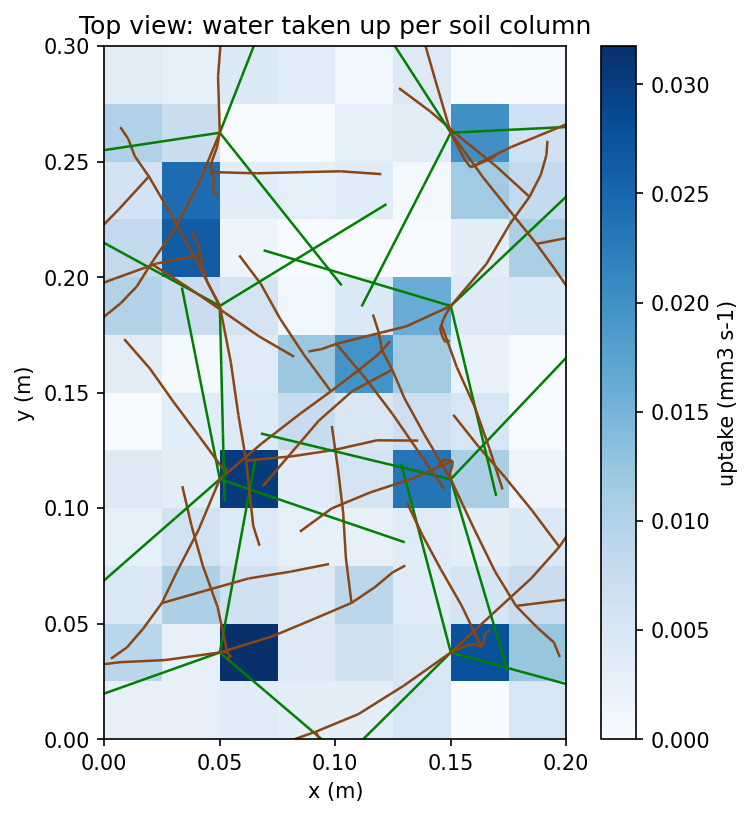
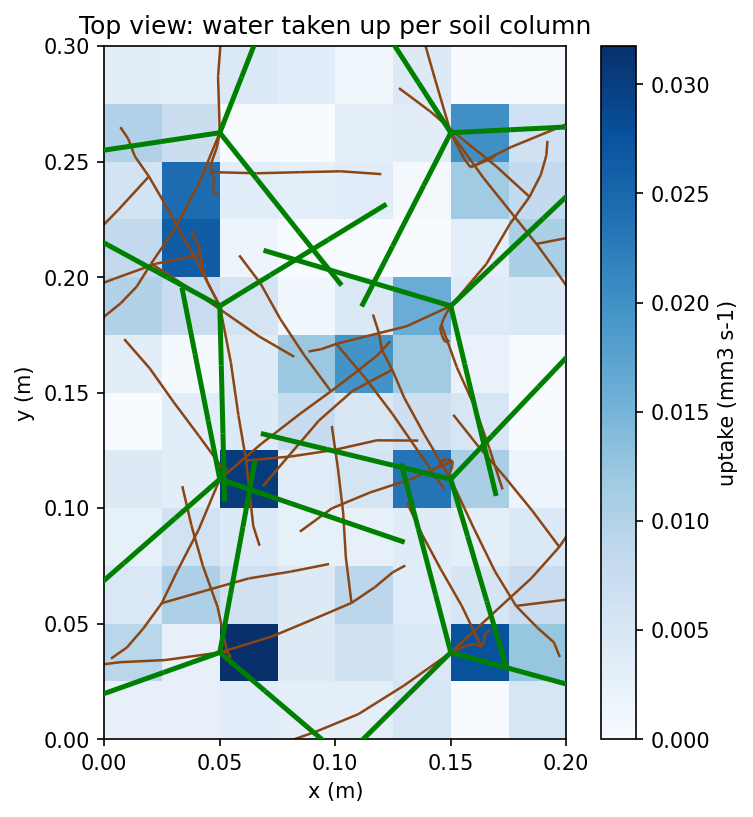
SPAC example: top view draws the shoot last and thicker

diff --git a/examples/soil_plant_atmosphere/plotting.py b/examples/soil_plant_atmosphere/plotting.py
@@ -209,9 +209,10 @@ def top_view(grid, plant_data_structures, path, title="Top view: water taken up 
     for ds in plant_data_structures:
         start, end, owner = _segments(ds)
         organ = np.array([np.asarray(ds.get("organ"))[np.flatnonzero(owner == k)[0]] for k in range(len(start))])
-        colours = np.where(organ == ROOT, "saddlebrown", "green")
-        ax.add_collection(LineCollection(np.stack([start[:, :2], end[:, :2]], axis=1), colors=colours,
-                                         linewidths=1.2))
+        lines = np.stack([start[:, :2], end[:, :2]], axis=1)
+        ax.add_collection(LineCollection(lines[organ == ROOT], colors="saddlebrown", linewidths=1.2))
+        ax.add_collection(LineCollection(lines[organ != ROOT], colors="green", linewidths=2.4,   # the shoot,
+                                         zorder=3))                                              # last and thicker
     ax.set_xlabel("x (m)")
     ax.set_ylabel("y (m)")
     ax.set_title(title)

diff --git a/devlog.md b/devlog.md
@@ -2044,3 +2044,4 @@ Per-file counts:
 - **Longer laterals (your request):** 4 segments of 2 cm (8 cm, from 4.5 cm). Converges in 5 and 6 steps.
 - **Population side views (your request):** the side plots (SubOrgan segments, anatomy graph, soil slice) show only one planting row (row=0), seen along the row in the y–z plane.
 - **Upscaling series (your request):** `upscaling.py` derives the water potential at SubOrgan, Organ, Axis and Plant, each the mean of the scale below (one `derive` per scale); `plotting.upscaling_series` draws one graph per scale on one colour scale (the first row for the population). The smoke test checks the means and the five figures.
+- **Top view (your request):** shoot segments drawn last and twice as thick as the roots (2.4 vs 1.2).
